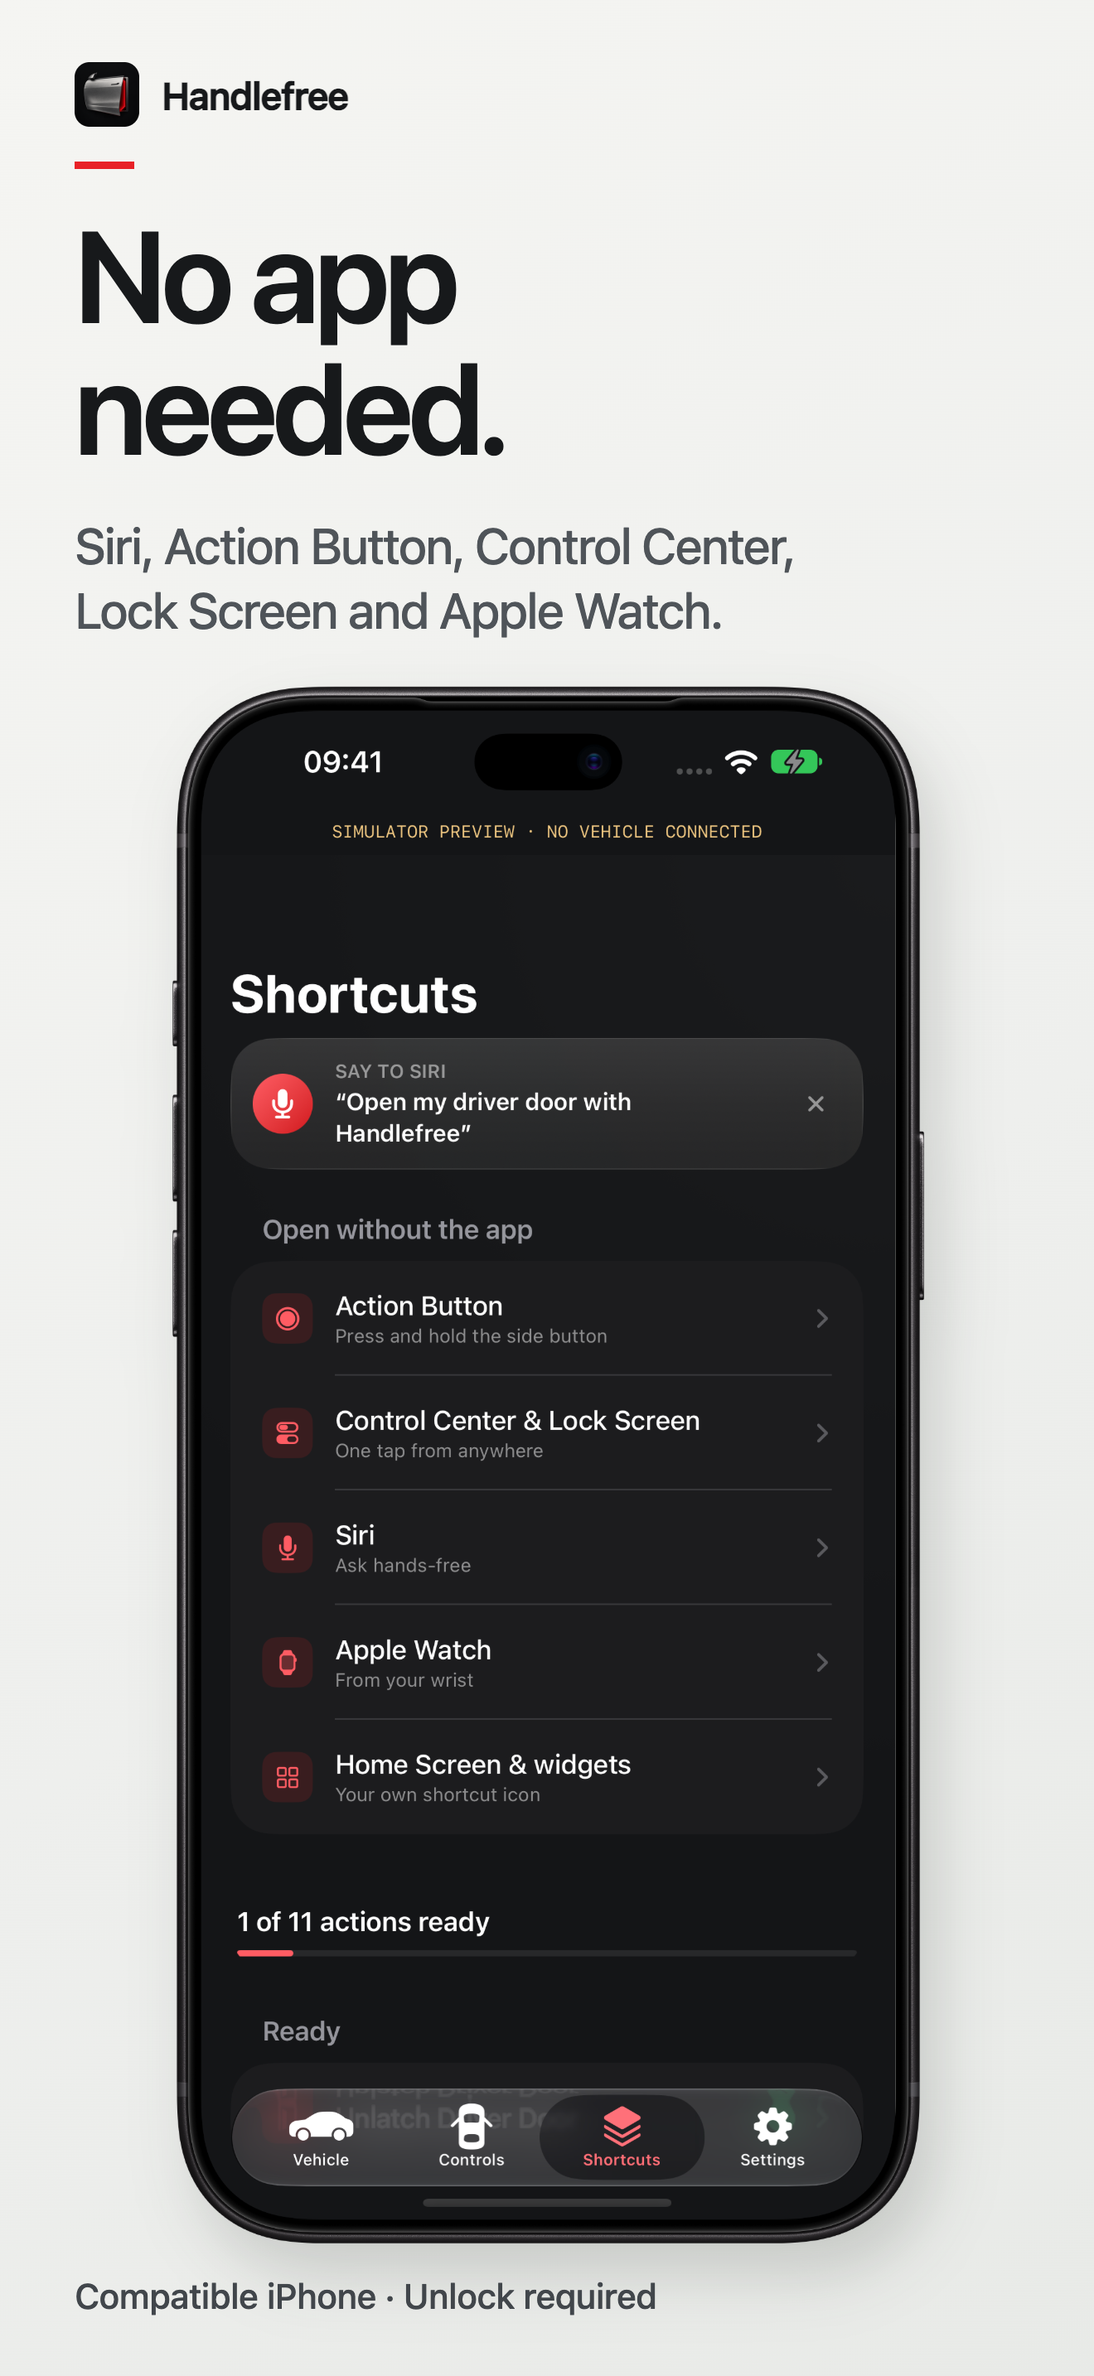
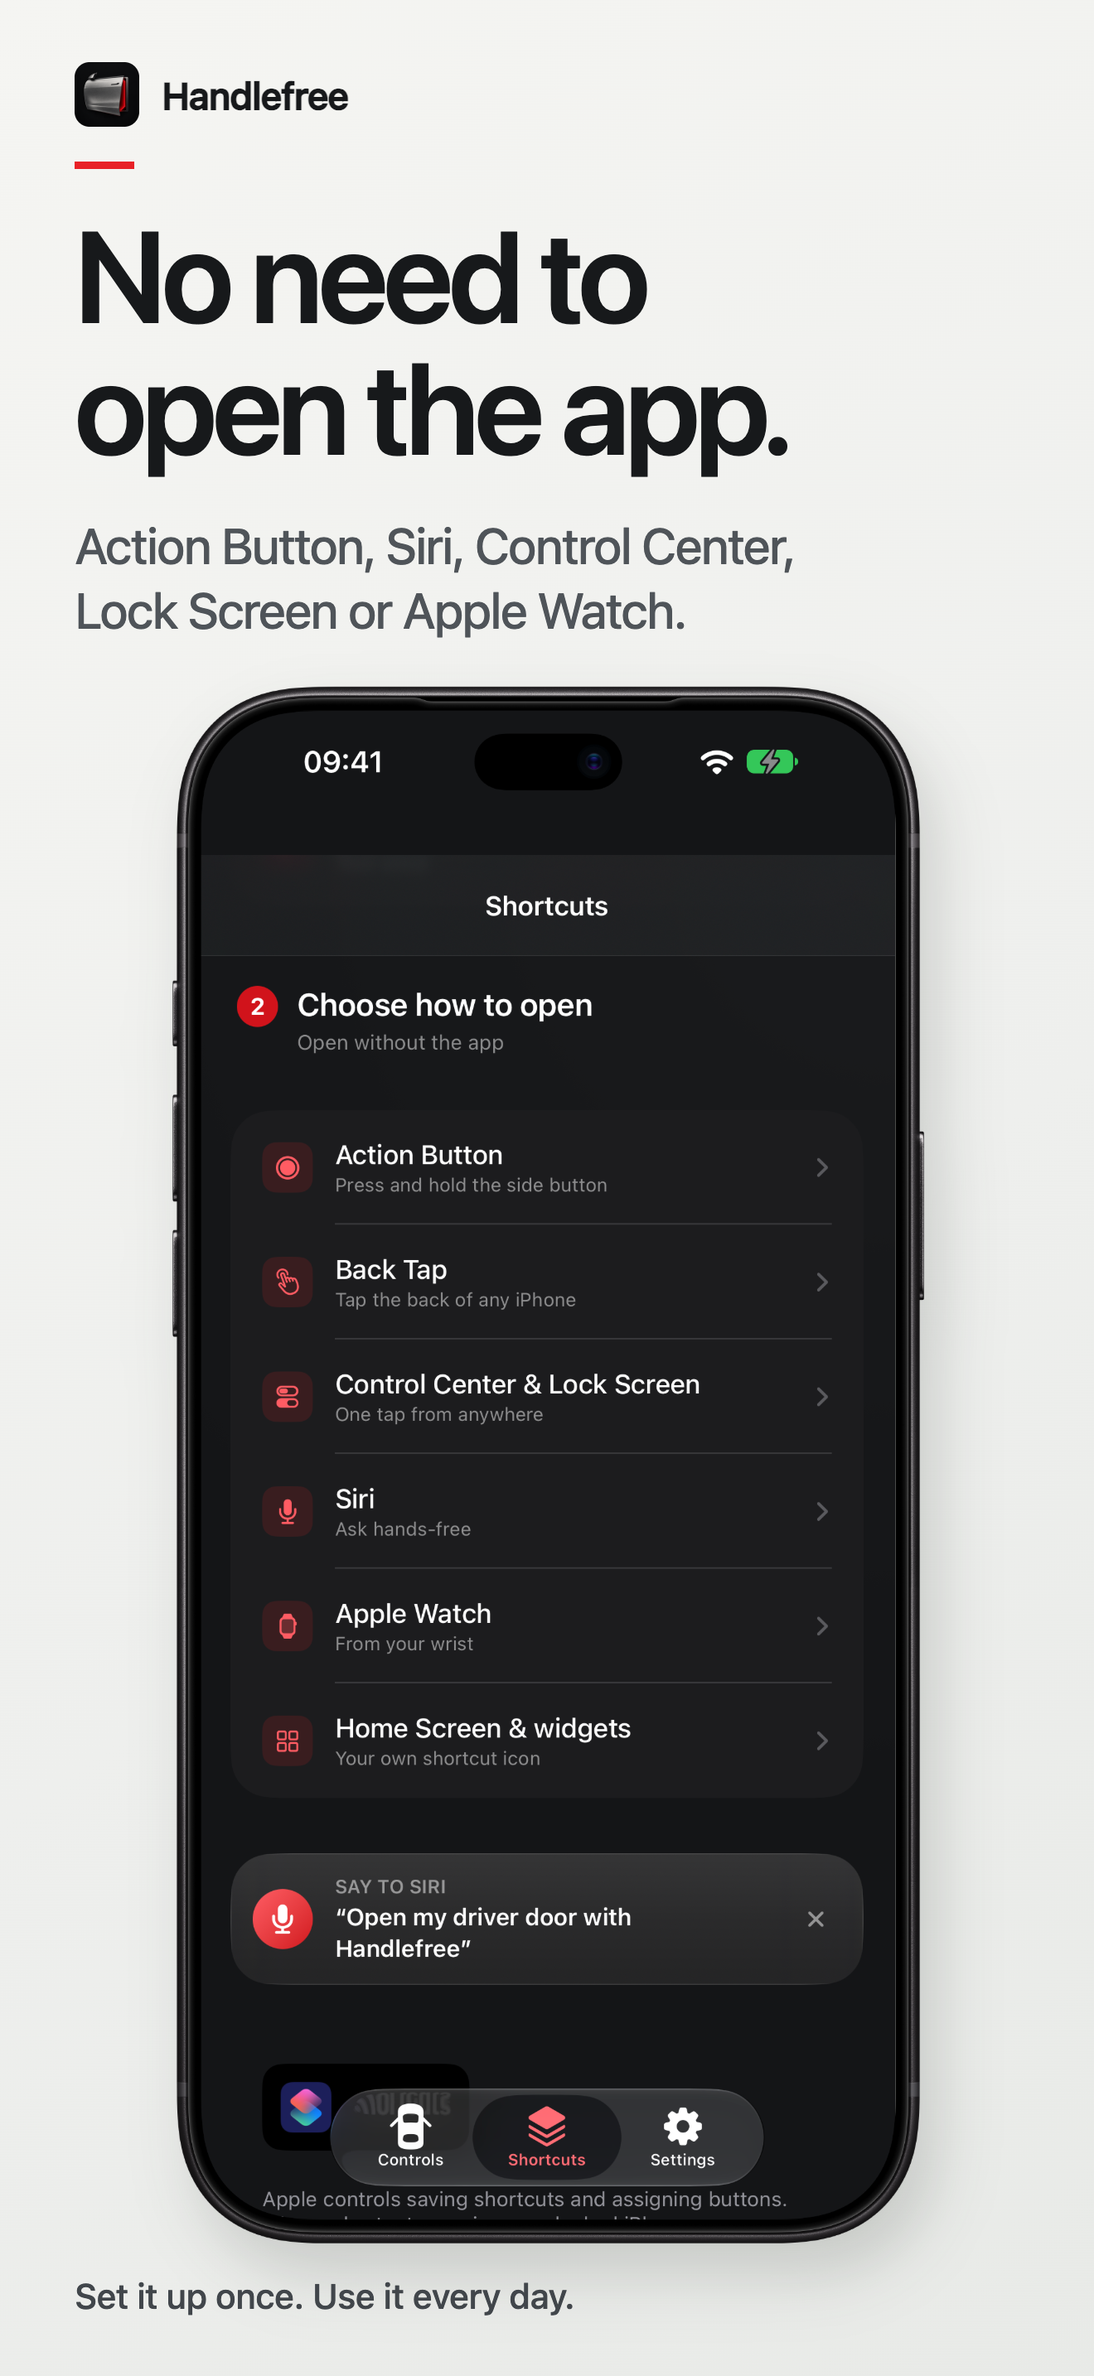
docs: sell the USP, no free/Pro split; 1.0.5 screenshots

diff --git a/README.de.md b/README.de.md
@@ -10,7 +10,7 @@ Handlefree (früher Teslatch) ist eine native iPhone-App, die die Tesla-Tür dei
 
 **[handlefree.app/de →](https://handlefree.app/de/)** · [Am echten Auto ansehen](https://handlefree.app/de/#real) · [Preise](https://handlefree.app/de/pricing/) · [Anleitungen](https://handlefree.app/de/guides/) · [Hilfe](https://handlefree.app/de/support/)
 
-> **Jetzt im App Store.** Handlefree 1.0 ist seit dem 7. Oktober 2026 erhältlich. Der Download ist kostenlos, die Fahrertür bleibt dauerhaft kostenlos.
+> **Jetzt im App Store.** Handlefree ist seit dem 7. Oktober 2026 erhältlich. Kein Konto, kein Internet nötig, entwickelt in Deutschland.
 >
 > Dies ist das offizielle **Produkt- und Feedback-Repository**, nicht der Quellcode der App. Die Fahrzeugsteuerung läuft in der nativen App, nicht im Browser.
 
@@ -29,11 +29,11 @@ Handlefree (früher Teslatch) ist eine native iPhone-App, die die Tesla-Tür dei
 ### Die App im Detail
 
 <table>
-<tr><td width="50%"><a href="assets/de/01-entry.png"><img src="assets/de/01-entry.png" alt="Kein Türgriff. Ein Druck. Startbildschirm von Handlefree mit Live-Status der Fahrertür, Taste zum Entriegeln und Favoriten für Kofferraum und Frunk" width="100%"></a></td><td width="50%"><a href="assets/de/02-controls.png"><img src="assets/de/02-controls.png" alt="Jede Tür. Ein Blick. Fahrzeugsteuerung mit Tasten für Türen, Frunk, Kofferraum und Ladeklappe und einer benannten Bestätigung für den Kofferraum" width="100%"></a></td></tr>
-<tr><td><a href="assets/de/03-no-app.png"><img src="assets/de/03-no-app.png" alt="Ganz ohne App. Kurzbefehle-Tab mit Siri-Satz und Einrichtung für Aktionstaste, Kontrollzentrum und Sperrbildschirm, Siri, Apple Watch und Home-Bildschirm" width="100%"></a></td><td><a href="assets/de/04-privacy.png"><img src="assets/de/04-privacy.png" alt="Dein Schlüssel. Nur am iPhone. Einstellungen mit Handlefree Pro, Favoriten, Watch-Zugriff, Urlaubsmodus und Signalschutz" width="100%"></a></td></tr>
+<tr><td width="50%"><a href="assets/de/01-home.png"><img src="assets/de/01-home.png" alt="Kein Türgriff. Nur ein Tipp. Handlefree öffnet mit deinem Auto: jede Tür, Frunk, Kofferraum und Ladeanschluss da, wo sie am Auto sind, und die Taste zum Entriegeln der Fahrertür" width="100%"></a></td><td width="50%"><a href="assets/de/02-doors-for-two.png"><img src="assets/de/02-doors-for-two.png" alt="Türen für zwei. Einmal halten. Beim Halten der Vordersitze im Auto-Bild leuchten beide Vordertüren auf" width="100%"></a></td></tr>
+<tr><td><a href="assets/de/03-no-app.png"><img src="assets/de/03-no-app.png" alt="App öffnen? Nicht nötig. Kurzbefehle: Wähle, wie du öffnest, per Aktionstaste, Auf Rückseite tippen, Kontrollzentrum und Sperrbildschirm, Siri, Apple Watch und Widgets" width="100%"></a></td><td><a href="assets/de/05-privacy.png"><img src="assets/de/05-privacy.png" alt="Dein Schlüssel. Nur am iPhone. Einstellungen mit Watch-Zugriff, Urlaubsmodus und Signalschutz" width="100%"></a></td></tr>
 </table>
 
-*App-Store-Screenshots von Handlefree 1.0, aufgenommen im iOS-Simulator. Der Hinweis „Simulator-Vorschau · kein Fahrzeug verbunden“ ist bewusst sichtbar. Die Grafik zeigt die Oberfläche; sie bestätigt kein bestimmtes Modell, keine Ausstattung und keine tatsächliche Türposition.*
+*App-Store-Screenshots von Handlefree 1.0.5, aufgenommen im iOS-Simulator mit Demodaten. Die Grafik zeigt die Oberfläche; sie bestätigt kein bestimmtes Modell, keine Ausstattung und keine tatsächliche Türposition.*
 
 ## Was es nützlich macht
 
@@ -43,21 +43,16 @@ Handlefree (früher Teslatch) ist eine native iPhone-App, die die Tesla-Tür dei
 | **Apple Kurzbefehle und Siri** | Siri-Sätze, native App Intents und fertige Kurzbefehle für unterstützte Aktionen. |
 | **Aktionstaste des iPhone** | Lege einen Tür-Kurzbefehl auf ein iPhone mit Aktionstaste. |
 | **Kontrollzentrum und Sperrbildschirm** | Eine feste Steuerung pro Tür ab iOS 18. Jede öffnet Handlefree und sendet genau diese Tür. |
-| **Apple Watch** | Zugang zur Fahrertür (Handlefree Pro), auch als Komplikation auf dem Zifferblatt, über das gekoppelte iPhone. |
+| **Apple Watch** | Zugang zur Fahrertür, auch als Komplikation auf dem Zifferblatt, über das gekoppelte iPhone. |
 | **Fahrzeugansicht** | Steuerungen für Türen, Frunk, Kofferraum und Ladeklappe, passend zu deiner Lenkradseite. |
 | **Favoriten** | Zwei häufig genutzte Steuerungen direkt unter der Haupttaste. |
 | **Ehrliche Rückmeldung** | Angefragt, vom Auto angenommen, als offen gemeldet oder nicht verfügbar, dazu die Dauer eines abgeschlossenen Befehls. Eine Bestätigung gilt nicht als Beweis, dass sich eine Tür bewegt hat. |
 | **Urlaubsmodus** | Pausiert Handlefree-Befehle, bis du den Modus mit Face ID oder Code beendest. Andere Tesla-Schlüssel und Apps bleiben unberührt. |
 | **Deutsch und Englisch** | Lokalisierte Oberfläche und Kurzbefehl-Begriffe. |
 
-## Kostenlos und Pro
+## Preis
 
-| Kostenlos | Handlefree Pro |
-| --- | --- |
-| Fahrertür entriegeln, verriegeln und entriegeln, in der App und per Siri, Kurzbefehl, Aktionstaste und Kontrollzentrum. Urlaubsmodus und alle Sicherheitseinstellungen. | Beifahrer- und hintere Türen, Frunk, Kofferraum, Ladeklappe und Apple Watch. |
-| Dauerhaft kostenlos. | **19,99 € einmalig** in Deutschland (im App Store in deiner Landeswährung). 7 Tage kostenlos testen nach dem Koppeln. Kein Abo. Über die Familienfreigabe teilbar. |
-
-Alle Pro-Funktionen kannst du **7 Tage** kostenlos testen, ab dem Koppeln deines Autos. Danach funktionieren die kostenlosen Funktionen weiter. Kauf wiederherstellen und Code einlösen findest du in der App. Die Zahlung wickelt Apple ab; Handlefree sieht deine Karte nie. Details: [handlefree.app/de/pricing](https://handlefree.app/de/pricing/).
+Handlefree ist im App Store kostenlos zu laden. Die aktuellen Preise stehen auf [handlefree.app/de/pricing](https://handlefree.app/de/pricing/). Die Zahlung wickelt Apple ab; Handlefree sieht deine Karte nie.
 
 ## Datenschutz durch Architektur
 
@@ -106,9 +101,9 @@ Halte beim Testen den Tür- oder Ladebereich frei. Verlass dich nicht allein auf
 
 ## Häufige Fragen
 
-**Ist Handlefree kostenlos?**
+**Was kostet Handlefree?**
 
-Fahrertür, Verriegeln und Entriegeln, Urlaubsmodus und alle Sicherheitseinstellungen sind kostenlos. Handlefree Pro ist ein Einmalkauf (19,99 € in Deutschland) für die übrigen Türen, Frunk, Kofferraum, Ladeklappe und Apple Watch, mit 7 Tagen kostenlosem Test nach dem Koppeln.
+Handlefree ist im App Store kostenlos zu laden. Die aktuellen Preise stehen auf [handlefree.app/de/pricing](https://handlefree.app/de/pricing/).
 
 **Funktioniert es ohne Internet?**
 
@@ -116,7 +111,7 @@ Befehle laufen über lokales Bluetooth, das Auto ist also auch in der Tiefgarage
 
 **Kann ich Beifahrer- oder hintere Türen öffnen, nicht nur die Fahrertür?**
 
-Ja, bei unterstützten Fahrzeugen, mit Handlefree Pro oder während des Tests. Jede Tür ist eine eigene Aktion mit eigenem Kurzbefehl und eigener Steuerung im Kontrollzentrum. Teste jede Tür in der App, bevor du dich auf den Kurzbefehl verlässt.
+Ja, bei unterstützten Fahrzeugen. Jede Tür ist eine eigene Aktion mit eigenem Kurzbefehl und eigener Steuerung im Kontrollzentrum. Teste jede Tür in der App, bevor du dich auf den Kurzbefehl verlässt.
 
 **Funktioniert die Watch, wenn das iPhone gesperrt ist?**
 

diff --git a/README.md b/README.md
@@ -10,7 +10,7 @@ Handlefree (formerly Teslatch) is a native iPhone app that opens the Tesla door 
 
 **[handlefree.app →](https://handlefree.app/)** · [See it on a real car](https://handlefree.app/#real) · [Pricing](https://handlefree.app/pricing/) · [Guides](https://handlefree.app/guides/) · [Support](https://handlefree.app/support/)
 
-> **Now on the App Store.** Handlefree 1.0 was released on 7 October 2026. It is free to download; the driver door stays free forever.
+> **Now on the App Store.** Handlefree was released on 7 October 2026. No account, no internet needed, built in Germany.
 >
 > This is the official **product showcase and feedback repository**, not the app's source code. Vehicle control happens in the native app, not in a browser.
 
@@ -29,11 +29,11 @@ Handlefree (formerly Teslatch) is a native iPhone app that opens the Tesla door 
 ### The app, up close
 
 <table>
-<tr><td width="50%"><a href="assets/01-entry.png"><img src="assets/01-entry.png" alt="Skip the handle. One press. Handlefree home screen with live driver-door status, an Unlatch Driver Door button and Trunk and Frunk favorites" width="100%"></a></td><td width="50%"><a href="assets/02-controls.png"><img src="assets/02-controls.png" alt="Every door. One view. Vehicle controls with door, frunk, trunk and charge-port buttons and a named Open Trunk / Close Trunk confirmation" width="100%"></a></td></tr>
-<tr><td><a href="assets/03-no-app.png"><img src="assets/03-no-app.png" alt="No app needed. Shortcuts tab with a Siri phrase and setup for the Action Button, Control Center and Lock Screen, Siri, Apple Watch and Home Screen widgets" width="100%"></a></td><td><a href="assets/04-privacy.png"><img src="assets/04-privacy.png" alt="Your key. Only on iPhone. Settings with Handlefree Pro, favorites, Watch access, Holiday Mode and signal guard" width="100%"></a></td></tr>
+<tr><td width="50%"><a href="assets/01-home.png"><img src="assets/01-home.png" alt="Skip the handle. Tap your phone. Handlefree opens on your car: every door, the frunk, trunk and charge port where they are on the car, and the Unlatch Driver Door button" width="100%"></a></td><td width="50%"><a href="assets/02-doors-for-two.png"><img src="assets/02-doors-for-two.png" alt="Doors for two. One hold. Holding the front seats in the car picture lights up both front doors" width="100%"></a></td></tr>
+<tr><td><a href="assets/03-no-app.png"><img src="assets/03-no-app.png" alt="No need to open the app. Shortcuts: choose how to open with the Action Button, Back Tap, Control Center and Lock Screen, Siri, Apple Watch and Home Screen widgets" width="100%"></a></td><td><a href="assets/05-privacy.png"><img src="assets/05-privacy.png" alt="Your key. Only on iPhone. Settings with Watch access, Holiday Mode and signal guard" width="100%"></a></td></tr>
 </table>
 
-*App Store screenshots of Handlefree 1.0, captured in the iOS Simulator. The "Simulator preview · No vehicle connected" label is visible on purpose. The artwork illustrates the interface; it does not certify a particular model, trim or physical door position.*
+*App Store screenshots of Handlefree 1.0.5, captured in the iOS Simulator with demo data. The artwork illustrates the interface; it does not certify a particular model, trim or physical door position.*
 
 ## What makes it useful
 
@@ -43,21 +43,16 @@ Handlefree (formerly Teslatch) is a native iPhone app that opens the Tesla door 
 | **Apple Shortcuts and Siri** | Siri phrases, native App Intents and ready-made Shortcuts for supported actions. |
 | **iPhone Action Button** | Assign a door Shortcut on an iPhone with an Action Button. |
 | **Control Center and Lock Screen** | One fixed control per door on iOS 18 or later. Each opens Handlefree and sends exactly that door. |
-| **Apple Watch** | Driver-door access (Handlefree Pro), including a watch-face complication, relayed through the paired iPhone. |
+| **Apple Watch** | Driver-door access, including a watch-face complication, relayed through the paired iPhone. |
 | **Visual vehicle controls** | Spatial door, frunk, trunk and charge-port cover controls, mapped to your steering side. |
 | **Favorites** | Keep two controls you use most right under the main button. |
 | **Honest feedback** | Requested, accepted by the car, reported open or unavailable, plus how long a completed command took. A command acknowledgement is not treated as proof that a door moved. |
 | **Holiday Mode** | Pause Handlefree commands until you turn the mode off with Face ID or your passcode. Other Tesla keys and apps are unaffected. |
 | **English and German** | Localized app interface and Shortcut vocabulary. |
 
-## Free and Pro
+## Price
 
-| Free | Handlefree Pro |
-| --- | --- |
-| Unlatch the driver door, lock and unlock, in the app and with Siri, Shortcuts, the Action Button and Control Center. Holiday Mode and every safety setting. | Passenger and rear doors, frunk, trunk, charge-port cover and Apple Watch. |
-| Free forever. | **€19.99 once** in Germany ($19.99 in the US; local price on the App Store). 7-day free trial after pairing. No subscription. Shared with your family through Family Sharing. |
-
-Every Pro feature is free to try for **7 days**, starting when you pair your car. Afterwards the free features keep working. Restore purchase and Redeem code are in the app. Payment is handled by Apple; Handlefree never sees your card. Details: [handlefree.app/pricing](https://handlefree.app/pricing/).
+Handlefree is free to download on the App Store. Current prices are on [handlefree.app/pricing](https://handlefree.app/pricing/). Payment is handled by Apple; Handlefree never sees your card.
 
 ## Privacy by architecture
 
@@ -106,9 +101,9 @@ Keep the door or cargo area clear when testing. Do not rely on an animation alon
 
 ## Questions people ask
 
-**Is Handlefree free?**
+**What does Handlefree cost?**
 
-The driver door, locking and unlocking, Holiday Mode and all safety settings are free. Handlefree Pro is a one-time purchase (€19.99 in Germany) that adds the other doors, frunk, trunk, charge-port cover and Apple Watch, with a 7-day free trial after you pair your car.
+Handlefree is free to download on the App Store. Current prices are on [handlefree.app/pricing](https://handlefree.app/pricing/).
 
 **Can it work without internet?**
 
@@ -116,7 +111,7 @@ Vehicle commands use local Bluetooth, so the car can be reached in a garage with
 
 **Can I open a passenger or rear door, not just the driver's?**
 
-Yes, on supported vehicles, with Handlefree Pro or during the trial. Each door is a separate action with its own Shortcut and Control Center control. Test each door in the app before relying on its Shortcut.
+Yes, on supported vehicles. Each door is a separate action with its own Shortcut and Control Center control. Test each door in the app before relying on its Shortcut.
 
 **Does the Watch work with the iPhone locked?**
 

diff --git a/docs/ASSETS.md b/docs/ASSETS.md
@@ -1,10 +1,10 @@
 # Approved public assets
 
 - assets/icon.png: developer-approved Handlefree app icon.
-- assets/01-entry.png, 02-controls.png, 03-no-app.png, 04-privacy.png: the English App Store screenshots of Handlefree 1.0 (Studio v3 set), unchanged.
-- assets/de/01-entry.png to 04-privacy.png: the German App Store screenshots of the same set, unchanged.
+- assets/01-home.png, 02-doors-for-two.png, 03-no-app.png, 05-privacy.png: four of the five English App Store screenshots of Handlefree 1.0.5 (studio-v2 v105 set), unchanged.
+- assets/de/: the German App Store screenshots of the same four, unchanged.
 - assets/handlefree-banner.png: generated for the public showcase and GitHub profile using the profile renderer at onekapisch/onekapisch, scripts/build-bento.mjs (tile-handlefree). It composes the approved icon and transparent door panel without modifying their source pixels. Since the App Store release (7 October 2026) it carries a red "New release" badge, Apple's official "Download on the App Store" badge (no Web chip: Handlefree is an iPhone app) and the tagline "Skip the handle of your Tesla. A simpler way in." instead of BETA.
 - assets/appstore-badge-en.svg and appstore-badge-de.svg: Apple's official "Download on the App Store" badges (black, English and German), unchanged, as used on handlefree.app. Use them only to link to the Handlefree App Store listing, under Apple's marketing guidelines.
 - assets/real-car-en.jpg and real-car-de.jpg: still frames of the real-car clip on handlefree.app (the developer's own recording: one press on the iPhone Action Button unlatches the driver door). Third-party number plates and personal details are blurred; keep them blurred in any crop.
 
-The screenshots are 1320 × 2868 pixels and were captured in the iOS Simulator, so the "Simulator preview · No vehicle connected" line is visible. The tile is 3072 × 688 pixels. GitHub displays both at the available README width. Do not remove simulator labels from screenshots or imply official Tesla artwork.
+The screenshots are 1320 × 2868 pixels and were captured in the iOS Simulator with demo data. The tile is 3072 × 688 pixels. GitHub displays both at the available README width. Do not remove simulator labels from screenshots or imply official Tesla artwork.

diff --git a/docs/COMPATIBILITY.md b/docs/COMPATIBILITY.md
@@ -31,7 +31,7 @@ The app includes Model 3/S/X/Y appearance choices. Artwork selection does not en
 - A nearby iPhone for both phone and Watch commands; no standalone Watch key in this version.
 - Bluetooth reachability is not a precise distance measurement. No fixed distance promise.
 - Reader locations vary by vehicle; follow model-appropriate pairing instructions.
-- Passenger and rear doors, frunk, trunk, charge-port cover and Apple Watch are part of Handlefree Pro after the 7-day trial (€19.99 once in Germany, local price on the App Store); the driver door, lock and unlock are free.
+- Each passenger and rear door, the frunk, trunk and charge-port cover is its own action. Test each once in the app before relying on its Shortcut.
 - iPhone only. Handlefree is not available in France.
 
 For troubleshooting, use the [support guide](https://handlefree.app/support/). When reporting compatibility, supply model/year, software version, app version and the particular action. Do not publish a VIN, key or location.

diff --git a/CHANGELOG.md b/CHANGELOG.md
@@ -1,5 +1,10 @@
 # Showcase changelog
 
+## 2026-11-16: no free/Pro split, 1.0.5 screenshots
+
+- Owner rule (16 Nov): no "driver door free / Pro" marketing. The "Free and Pro" table is now a short Price section linking to handlefree.app/pricing; the FAQ asks "What does Handlefree cost?"; Pro mentions removed from the notice, the Watch row, the passenger-door answer, docs/COMPATIBILITY.md and the issue-template links.
+- Screenshots replaced with four of the five Handlefree 1.0.5 App Store screenshots (EN/DE); the old privacy shot carried "Driver door free · Pro is a one-time purchase".
+
 ## 2026-11-07: launch price ended
 
 - Pro is €19.99 / 19,99 € once (US $19.99); launch-price wording removed from both READMEs and docs/COMPATIBILITY.md.
